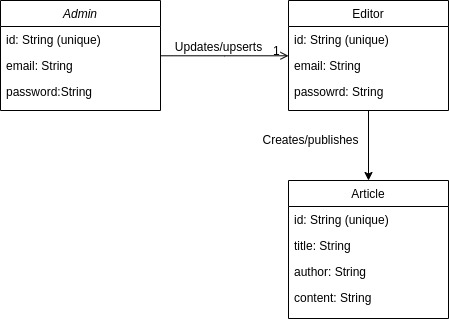
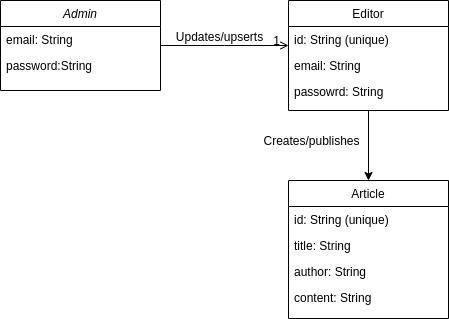
README edit

diff --git a/README.md b/README.md
@@ -1,10 +1,15 @@
-# Simple news-paper publishing
+# Simple news-paper publishing (with minimal UI)
 
 ## Problem description
 
-1. **Problem statement and application scope**: Here, we need to design the backend for a news paper that can only have one editor at a time. When a new editor is added to the system, the previous one is let go. The sole respnsibilty of the editor is to publish 10-15 articles a day. There is one Administrator to the system, who can appoint or let go of the previous editor. We have to develop the necessary REST API to run all the above mentioned CRUD operations with Node.js(Express).
+1. **Problem statement and application scope**: Here, we need to design the backend for a news paper that can only have one editor at a time. When a new editor is added to the system, the previous one is let go. The sole respnsibilty of the editor is to publish 10-15 articles a day. There is one Administrator to the system, who can appoint or let go of the previous editor. We have to develop the necessary REST API to run all the above mentioned CRUD operations with Node.js(Express). <br/>
+   In order to solve this problem, we need to: <br/>
 
-2. **Schema Diagram**: The diagram below contains data models or schema of the problem described and the CRUD operations implemented:<br/> <br/>
+   1. Design Admin, Editor and Article data-model/schema
+   2. Code API endpoints for updating the editor and publishing articles via NodeJS (Experss).
+   3. Here, the admin information is kept in the `.env` file instead of MongoDB, since there is only one admin and no super admin.
+
+2. **Schema Diagram**: The diagram below contains schema of the problem described and the CRUD operations implemented:<br/> <br/>
    ![Schema Diagram](/schema.jpg)
 
 3. **Codebase**: This github repo contains the code for running the app.
@@ -16,11 +21,12 @@
 To run the app:
 
 1. Go to project root
-2. run `npm install` in terminal
-3. run `npm start` in terminal
+2. Setup the .env file as per .env.example.
+3. run `npm install` in terminal
+4. run `npm start` in terminal
 
 ### Testing REST API endpoints:
 
-1. In order to test the rest API endpoints, one can use the minimalistic web UI, by opening http://localhost:3000/ through browser
+1. In order to test the REST API endpoints, one can use the minimalistic web UI, by opening http://localhost:3000/ through browser
 
-2. Inside the /curl_test/ directory, curl commands to test every endpoint has been put in their respective bash file. Simply modify the endpoint bash file, and run via `bash <filename>.sh`
+2. Inside the /curl_test/ directory, to test every endpoint, one bash file was put per endpoint. Simply modify the endpoint bash file, and run via `bash <filename>.sh`. For example: `sh editor_create.sh` to create/update an editor.
